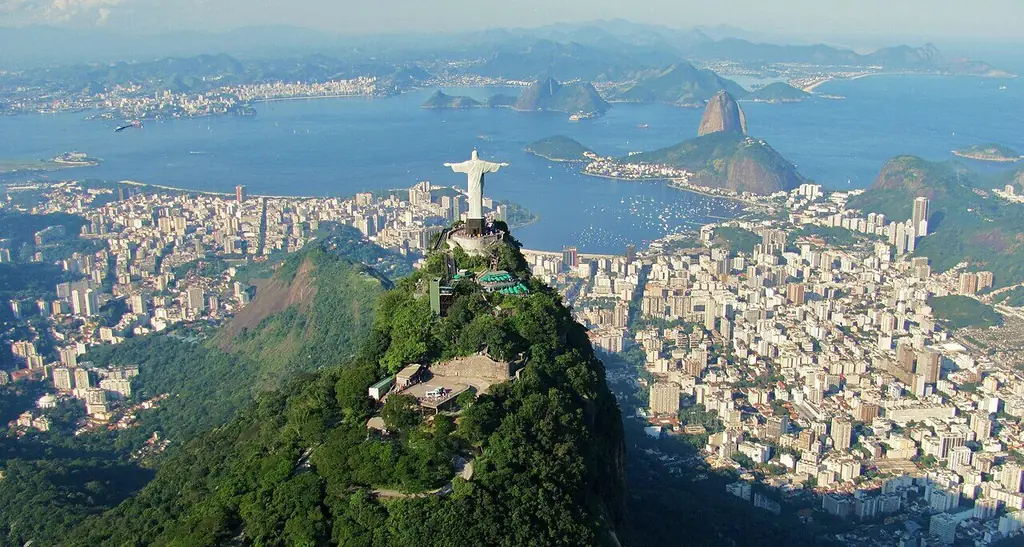
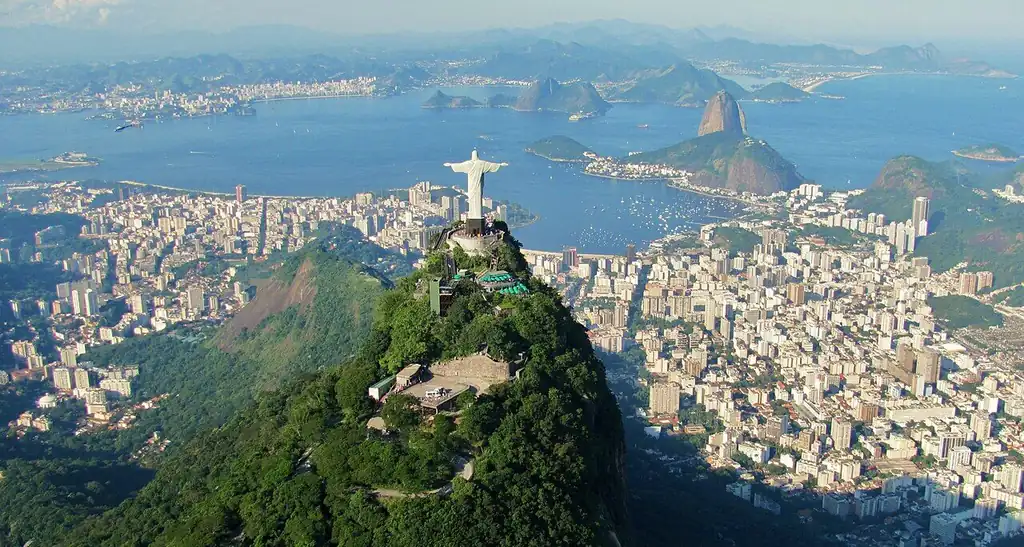
perf: fix nginx WebP cache + tighter image compression + font preloads
- nginx: add webp/avif to 1y immutable cache rule (was missing, causing 4h TTL)
- nginx: add gzip_proxied, comp_level 6, min_length 256 for better proxy compression
- Re-encode brasilia/salvador/fortaleza/rio/saopaulo at q55 from source JPEGs
- Re-encode hero.webp at q35 from Unsplash source (116KB→84KB)
- Add preload for inter-variable-latin-ext.woff2 (was unpreloaded 131KB font in critical chain)

diff --git a/index.html b/index.html
@@ -16,6 +16,7 @@
     <link rel="preload" as="image" href="/logo.webp" type="image/webp" />
     <link rel="preload" as="image" href="/hero.webp" type="image/webp" />
     <link rel="preload" as="font" type="font/woff2" href="/fonts/inter-variable-latin.woff2" crossorigin />
+    <link rel="preload" as="font" type="font/woff2" href="/fonts/inter-variable-latin-ext.woff2" crossorigin />
     <link rel="preload" as="font" type="font/woff2" href="/fonts/dm-serif-normal-latin.woff2" crossorigin />
     <link rel="icon" type="image/svg+xml" href="/favicon.svg" />
     <link rel="icon" type="image/png" href="/logo.png" />
